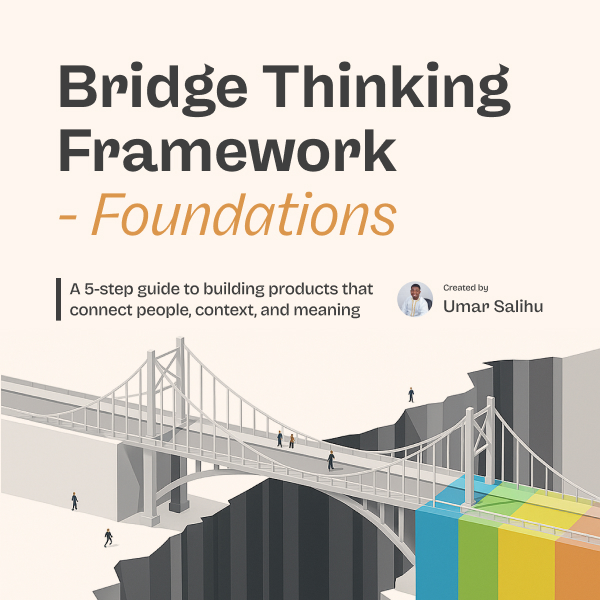
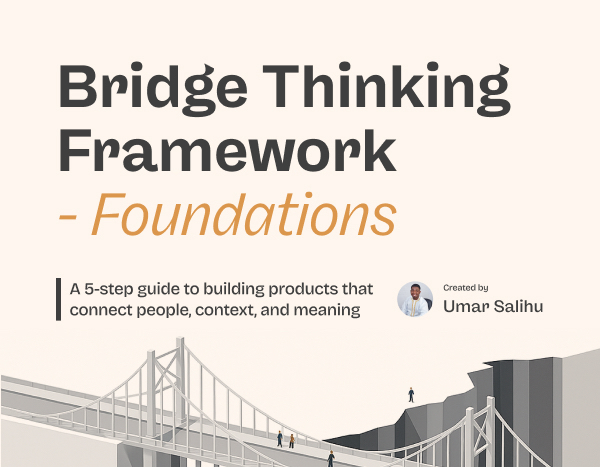
style: improve header, footer, and layout styling
- Increase scroll threshold in header to 100px for smoother hide/show behavior
- Simplify header banner animation by removing opacity transition
- Update header and footer styling for better visual consistency
- Adjust spacing and typography in CTA section
- Optimize resource card images with explicit dimensions and priority loading
- Refactor footer to use shared header navigation logic
- Disable unavailable social links in footer

diff --git a/components/footer.tsx b/components/footer.tsx
@@ -1,18 +1,17 @@
 "use client"
-import React from "react"
 import Link from "next/link"
 import { Route } from "next"
-import { FaDiscord, FaYoutube } from "react-icons/fa"
-import { usePathname } from "next/navigation"
-
-import { Container } from "./container"
-import { cn, isActivePath } from "@/lib/utils"
-import { buttonVariants } from "@/ui/button"
-import { NAVIGATION_ROUTES } from "@/lib/constants"
 import Image from "next/image"
-import { siteConfig } from "@/config/site.config"
-import { RiTwitterXLine } from "react-icons/ri"
 import { FaGithub } from "react-icons/fa6"
+import { RiTwitterXLine } from "react-icons/ri"
+import { FaDiscord, FaYoutube } from "react-icons/fa"
+
+import { cn } from "@/lib/utils"
+import { Container } from "./container"
+import { buttonVariants } from "@/ui/button"
+import { useHeader } from "@/hooks/useHeader"
+import { siteConfig } from "@/config/site.config"
+import { NAVIGATION_ROUTES } from "@/lib/constants"
 
 const footerSocials = [
   {
@@ -37,17 +36,21 @@ const footerSocials = [
 ]
 
 export const Footer = () => {
-  const pathname = usePathname()
-  const [hash, setHash] = React.useState<string>("")
+  const { pathname, activeSection, mobileActive, handleRouteItem } = useHeader()
 
-  React.useEffect(() => {
-    const updateHash = () => setHash(window.location.hash)
+  const getIsActive = (routeValue: string, isMobile?: boolean) => {
+    if (routeValue === "/") {
+      return isMobile ? mobileActive === "home" : activeSection === ""
+    }
 
-    updateHash()
-    window.addEventListener("hashchange", updateHash)
+    if (routeValue.includes("#")) {
+      const sectionId = routeValue.split("#")[1]
 
-    return () => window.removeEventListener("hashchange", updateHash)
-  }, [])
+      return isMobile ? mobileActive === sectionId : activeSection === sectionId
+    }
+
+    return pathname === routeValue
+  }
 
   return (
     <footer className="overflow-x-clip">
@@ -76,20 +79,13 @@ export const Footer = () => {
                 <div className="py-6">
                   <div className="grid grid-cols-2 sm:grid-cols-4 md:grid-cols-6 lg:grid-cols-7">
                     {NAVIGATION_ROUTES.map((route) => {
-                      const isActive = isActivePath(route.value, pathname, hash)
+                      const isActive = getIsActive(route.value)
 
                       return (
                         <Link
                           key={route.label}
                           href={route.value as Route}
-                          onClick={() => {
-                            if (route.value.includes("#")) {
-                              const [, h] = route.value.split("#")
-                              setHash(`#${h}`)
-                            } else {
-                              setHash("")
-                            }
-                          }}
+                          onClick={(e) => handleRouteItem(e, route.value)}
                           className={buttonVariants({
                             variant: "ghost",
                             size: "sm",
@@ -167,12 +163,16 @@ export const Footer = () => {
             <div className="flex items-center gap-4">
               {footerSocials.map((social) => {
                 const Comp = social.url ? Link : "span"
+
                 return (
                   <Comp
                     key={social.title}
                     href={social.url as Route}
                     title={social.title}
                     target="_blank"
+                    className={cn(
+                      !social.url && "pointer-events-none opacity-50"
+                    )}
                   >
                     <social.icon className="size-6 text-accent" />
                   </Comp>

diff --git a/app/components/resources.tsx b/app/components/resources.tsx
@@ -43,7 +43,7 @@ export const ResourceSection = (
             </p>
           </div>
 
-          <div className="grid grid-cols-1 gap-8 sm:grid-cols-2 lg:grid-cols-3">
+          <div className="grid grid-cols-1 gap-6 sm:grid-cols-2 md:gap-8 lg:grid-cols-3">
             {resourcesArray.map((resource) => (
               <a
                 href={resource.url}
@@ -52,12 +52,14 @@ export const ResourceSection = (
                 className="flex cursor-pointer flex-col gap-3 border border-accent bg-background p-4 text-accent shadow-[4px_8px_0_0_#000000] transition-shadow duration-100 hover:shadow-none"
               >
                 <header className="flex flex-col gap-4">
-                  <div className="relative h-[224px] w-full overflow-hidden bg-[#F9B7328F]">
+                  <div className="relative h-auto w-full overflow-hidden bg-[#F9B7328F] sm:aspect-[1.5]">
                     <Image
                       src={resource.banner}
                       alt={resource.title}
-                      fill
+                      height={224}
+                      width={324}
                       quality={100}
+                      priority
                       className="size-full origin-top object-cover"
                     />
                   </div>

diff --git a/app/components/cta.tsx b/app/components/cta.tsx
@@ -105,16 +105,16 @@ export const CTASection = (
             />
           </div>
 
-          <div className="grid grid-cols-2 gap-4 sm:gap-6 md:grid-cols-4 md:gap-8">
+          <div className="grid grid-cols-2 gap-4 sm:gap-6 md:grid-cols-4">
             {ctaOccasions.map((oc) => (
               <div
                 key={oc.title}
                 className={cn(
-                  "flex flex-col justify-between gap-8 px-4 py-6 md:gap-12 md:px-6 md:py-8 lg:gap-14",
+                  "flex flex-col justify-between gap-8 px-4 py-6 md:gap-12 md:px-6 md:py-8",
                   oc.style
                 )}
               >
-                <p className="text-lg font-semibold md:text-xl lg:text-2xl">
+                <p className="text-base font-medium md:text-lg lg:text-xl">
                   {oc.title}
                 </p>
                 <p className="text-sm font-normal">{oc.description}</p>

diff --git a/components/header.tsx b/components/header.tsx
@@ -47,7 +47,6 @@ export const Header = () => {
           ref={bannerRef}
           animate={{
             height: showBanner ? bannerHeight : 0,
-            opacity: showBanner ? 1 : 0,
           }}
           transition={{ duration: 0.25, ease: [0.4, 0, 0.2, 1] }}
           className="fixed top-0 left-0 z-50 w-full"
@@ -86,8 +85,8 @@ export const Header = () => {
       >
         <nav
           className={cn(
-            "flex h-22 items-center justify-center bg-background/90 backdrop-blur-md",
-            showMenu && "bg-primary backdrop-blur-none"
+            "flex h-22 items-center justify-center border-b border-b-border/40 bg-background md:border-transparent",
+            showMenu && "border-b-transparent bg-primary"
           )}
         >
           <Container className="flex items-center justify-between gap-4">

diff --git a/hooks/useHeader.ts b/hooks/useHeader.ts
@@ -44,7 +44,7 @@ export const useHeader = () => {
   React.useEffect(() => {
     let lastScrollY = window.scrollY
     let ticking = false
-    const threshold = 10
+    const threshold = 100
 
     const update = () => {
       const current = window.scrollY
